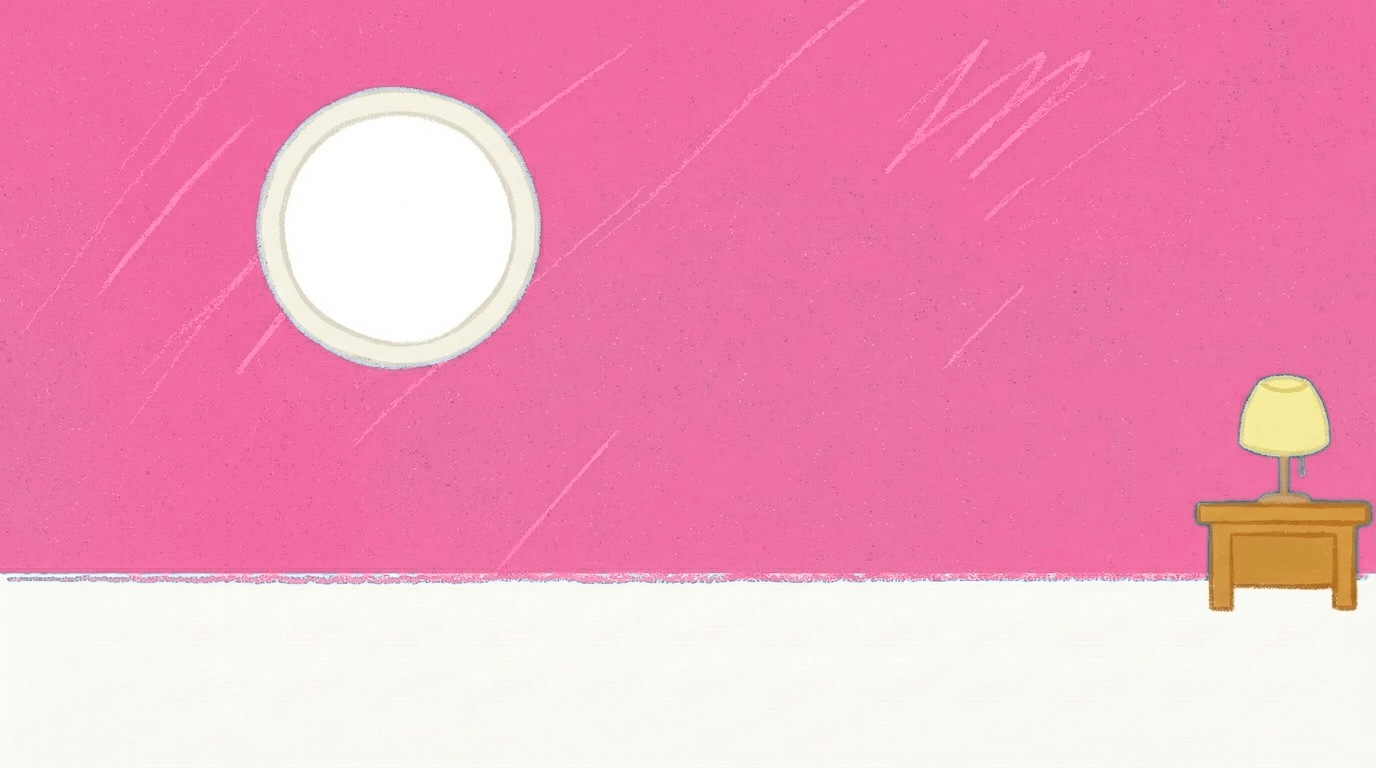
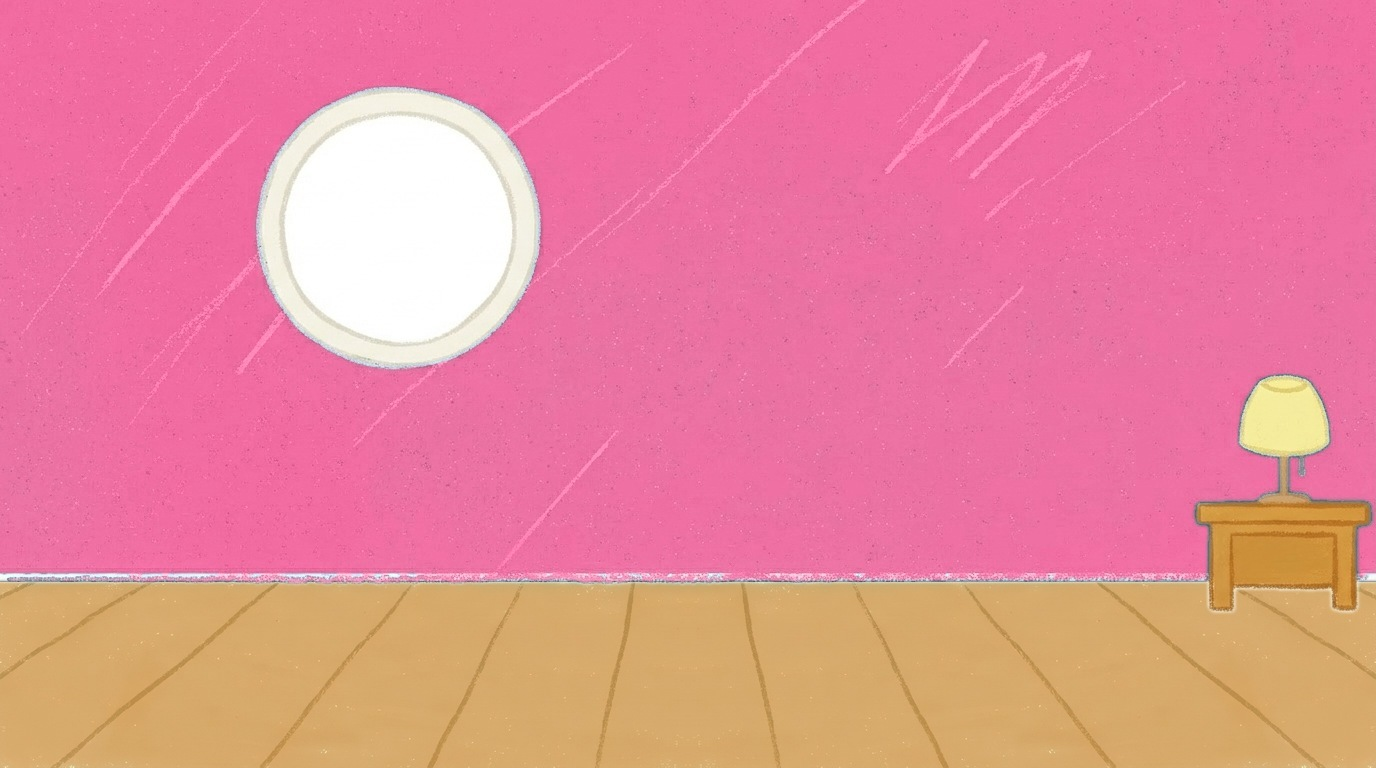
Julkalendern: starka rum och vinterkullen v3 i bruk
Kullen v3 (färgad snö, stugor) och kvällen v3 (lugnt norrsken) i lucka.KULLE.
Rummen i djur.js: köket v2 (orange), vardagsrummet v4 (teal), sovrummet v2
(rosa, nu med varmt trägolv). Rättat: mys: false hade hamnat i en kommentar.
Bakgrundsdokumenten har fått v2/v3/v4-avsnitten.

Changed region(s): [[0.0, 0.75, 1.0, 1.0]]

diff --git a/produktion/youtube/shorts/jul/djur.js b/produktion/youtube/shorts/jul/djur.js
@@ -391,8 +391,8 @@ const mysDriva = (lykta, gh, kvall, lila) => { const [gran, lampor] = mysGran(11
       <path d="M-8 -86 q8 -18 16 0" fill="none" stroke="#3E2F22" stroke-width="4"/></g>` : ''}`,
     `${lampor}${lykta ? `<circle class="mys-glod" cx="290" cy="985" r="160" fill="url(#mys-sken)"/><g transform="translate(290 1030) scale(1.4)"><rect x="-16" y="-52" width="32" height="40" rx="6" fill="#FFD25E"/>
     <path d="M0 -16 C-12 -24 -8 -36 0 -48 C8 -36 12 -24 0 -16 Z" fill="#FF8A1E"/><path d="M0 -20 C-5 -25 -4 -31 0 -38 C4 -31 5 -25 0 -20 Z" fill="#FFF3C4"/></g>` : ''}`]; };
-const mysigt = (g, VW, VH, INNE, PLAT = '') => { const lila = /-v3/.test(PLAT);   // v3-bilderna har lila snö: drivorna får samma färg if (g.mys === false) return '';
-  if (INNE) { if (g.plats !== 'sovrummet') return '';   // vardagsrummet-v3 har girlangen i bilden
+const mysigt = (g, VW, VH, INNE, PLAT = '') => { if (g.mys === false) return ''; const lila = /vinterkullen.*-v3/.test(PLAT);   // v3-kullen har lila snö: drivorna får samma färg
+  if (INNE) { if (g.plats !== 'sovrummet') return '';   // vardagsrummet (v3/v4) har girlangen i bilden
     const N = 4, krok = Array.from({ length: N + 1 }, (_, i) => -20 + i * (VW + 40) / N), hang = 78;
     const lampor = krok.slice(1).flatMap((x, i) => [0.2, 0.4, 0.6, 0.8].map(u => [lerp(krok[i], x, u), -6 + 2 * hang * 2 * u * (1 - u) + 16]));
     const rosett = x => `<g transform="translate(${x} 6)">${MYSK('M0 0 C-30 -26 -42 6 -26 14 C-14 18 -6 8 0 0 C6 8 14 18 26 14 C42 6 30 -26 0 0 Z M-4 2 L-16 38 L-4 32 Z M4 2 L16 38 L4 32 Z', '#C8302A')}<circle r="8" fill="#9E2A22"/></g>`;
@@ -420,7 +420,7 @@ async function kor(g) {
   // YouTubes knappar); bara backen (lucka 5) ritas i kod
   // plats: 'koket' | 'sovrummet' | 'hallen' = inne (assets/bakgrunder/<plats>/<plats>-v1.jpeg), ingen snö; fötterna mitt på golvet (väggen slutar vid 75 %).
   // kvall inne = rummet mörkare (ingen egen kvällsbild); varmt ljus får saken stå för · kvallMork: hur mörkt (standard 0,34; lucka 7 är ljusare)
-  const INNE = g.plats && (g.platsBild ?? `/assets/bakgrunder/${g.plats}/${g.plats}-${g.plats === 'vardagsrummet' ? 'v3' : 'v1'}.jpeg`),   // platsBild: annan bild av rummet (prov)
+  const INNE = g.plats && (g.platsBild ?? `/assets/bakgrunder/${g.plats}/${g.plats}-${{ vardagsrummet: 'v4', sovrummet: 'v2', koket: 'v2' }[g.plats] ?? 'v1'}.jpeg`),   // starka rum (2026-11-16): teal vardagsrum, rosa sovrum, orange kök; platsBild: annan bild
   BACKE = g.backe ?? 0, PLAT = INNE || g.bakgrund?.replace('julskogen/julskogen.png', 'julskogen-v2/julskogen-v2.jpeg') || !BACKE && lucka.KULLE(g.kvall);   // bakgrund: egen utomhusbild (lucka 3: julskogen)
   const [VW, VH] = STA ? [1080, 1920] : [1920, 1080], E = STA ? g.staScen ?? 1 : g.vid?.[0] ?? 0.82, MARK = STA ? 1400 : g.vid?.[1] ?? (PLAT ? 864 : 925), KANT = VW / 2 / E, TAK = -MARK / E;
   const SCEN = `transform="translate(${VW / 2} ${MARK}) scale(${E})"`, GX = g.x ?? 0, SNO = PLAT ? (g.kvall ? '#D3E0F5' : '#F7F3EA') : g.kvall ? '#E3EAF5' : '#fff';

diff --git a/produktion/youtube/shorts/jul/lucka.js b/produktion/youtube/shorts/jul/lucka.js
@@ -51,7 +51,7 @@ const SIFFRA = ['M50 10 C15 10 10 60 10 80 C10 120 20 150 50 150 C80 150 90 120 
 // till vänster om handtaget. Stående är dörren 9:16: bildens kritröda yta innanför panellinjen (utsnittet x 300–1200, y 160–1360)
 // fyller rutan, och panellinjen, siffran och handtaget ritas i kod i bildens färger.
 const TAVLA = '/assets/rekvisita/kalendertavla/cut/kalendertavla.png', LUCKA = '/assets/rekvisita/kalenderlucka/kalenderlucka.jpeg';
-const KULLE = kvall => `/assets/bakgrunder/${kvall ? 'vinterkullen-natt-v2/vinterkullen-natt-v2' : 'vinterkullen-v2/vinterkullen-v2'}.jpeg`;   // v2 (2026-11-16): rosa eftermiddag och lila kväll, samma kulle
+const KULLE = kvall => `/assets/bakgrunder/${kvall ? 'vinterkullen-natt-v3/vinterkullen-natt-v3' : 'vinterkullen-v3/vinterkullen-v3'}.jpeg`;   // v3 (2026-11-16): färgad snö, stugor, lila skogskant, kväll med lugnt norrsken; samma kulle
 const bild = src => new Promise(r => { const im = new Image(); im.onload = im.onerror = r; im.src = src; });
 const siffror = (n, x, y, sk) => `<g transform="translate(${x} ${y}) scale(${sk}) translate(${-(String(n).length * 130 - 30) / 2} -80)"
   fill="none" stroke="${PAPPER}" stroke-width="28" stroke-linecap="round" stroke-linejoin="round">

diff --git a/bakgrunder/vinterkullen.md b/bakgrunder/vinterkullen.md
@@ -26,3 +26,12 @@ Google Flow, Nano Banana Pro, image2image (Edit Image 1 = bilden ovan), 16:9, up
 ```
 Edit Image 1. Keep the winter place EXACTLY the same in layout: same flat straight-on view, same soft wax-crayon and oil-pastel technique with fine crayon hatching and no dark outlines, the same big creamy white snow hill with exactly the same curve, height and position, and the same completely empty middle of the picture. ONLY change the colours and add a little life at the far edges. The sky becomes a rich, warm, colourful winter afternoon: clear saturated blue (#6FA3E0) at the very top, blending down through soft lilac (#B8A6E6) and warm rosy pink (#F4A9C2) to a glowing warm peach (#FFD1A6) just above the hill, all with the same gentle crayon hatching, saturated and cheerful like a toddler picture book. Far behind the hill, a low distant snowy ridge in soft lilac-blue crayon shows along the horizon. At the far left and far right edges only: a few more, fuller, chunky spruce trees in deep rich green crayon (#2F7D46) with rounded white snow caps, a little taller and more saturated than before but still only at the outer 15 percent of each side. At the far right, partly behind the trees, one small cosy red wooden cottage with a snowy roof and one small window glowing warm yellow. The snow hill stays clean creamy white (#FAF8F2) with a soft pale lilac crayon shade along its top edge. The middle 65 percent of the picture stays completely empty: only sky above and plain snow below. No sun, no moon, no clouds, no falling snow, no snowflakes, no stars, no animals, no people, no snowman, no footprints, no objects in the middle, no cast shadows, no text, no white frame or border.
 ```
+
+
+## Vinterkullen v3: färgad snö (julkalendern)
+
+`assets/bakgrunder/vinterkullen-v3/vinterkullen-v3.jpeg` (tagning 1 av 2, båda i `original/`). Samma kulle (kanten 1044–1054 mot 1050), mättnad ca 35 %. Snön är rosa och persika i krönet och lila och blå längre ner, med en lila skogskant bakom, granar i två djup och en röd och en gul stuga med tända fönster. Används av `lucka.KULLE()` sedan 2026-11-16 (Sanna: *"yes use new ones"*). Google Flow, Nano Banana Pro, Edit Image 1 = v2, 16:9, 2752 × 1536, 0 krediter.
+
+```
+Edit Image 1. Keep the layout EXACTLY the same: same flat straight-on view, the same big snow hill with exactly the same curve, height and position, the same empty middle of the picture where a character will stand. Make the whole picture much more colourful and saturated, like a rich premium toddler picture book drawn in thick wax crayon and oil pastel with visible crayon texture everywhere, no dark outlines. Sky: saturated clear blue (#4F8FE0) at the top, through rich lilac (#A68BE8) and strong rosy pink (#F48FB1) to a glowing warm peach-orange (#FFC08A) at the horizon. The snow is NEVER plain white paper: colour the snow hill with the sky's colours – soft rosy pink and peach light along the top of the hill where the low sun touches it, and cool lilac and periwinkle blue (#B7B0F0, #9DB4F2) crayon shading lower down and towards the sides, with gentle visible crayon strokes across the snow. Behind the hill, a soft purple forest edge (#7D6BC4) of small rounded spruce silhouettes along the horizon. At the left and right edges only, many more spruce trees in two depths: deep saturated blue-green spruces (#1F6B5A) in front with thick white-lilac snow caps, and paler lilac-blue spruces behind them. Far away on the right, two or three tiny cosy cottages, one red and one yellow, with small windows glowing warm golden yellow. The middle 60 percent of the picture stays completely empty of objects: only sky above and coloured snow below. No sun, no moon, no clouds, no falling snow, no snowflakes, no stars, no animals, no people, no snowman, no footprints, no text, no white frame or border.
+```

diff --git a/bakgrunder/vinterkullen-natt.md b/bakgrunder/vinterkullen-natt.md
@@ -37,3 +37,12 @@ Google Flow, Nano Banana Pro, image2image (Edit Image 1 = bilden ovan), 16:9, up
 ```
 Edit Image 1. Keep the winter evening place EXACTLY the same in layout: same flat straight-on view, same soft wax-crayon and oil-pastel technique with fine crayon hatching and no dark outlines, the same snow hill with exactly the same curve, height and position, and the same completely empty middle of the picture. ONLY change the colours and add a little warmth at the far edges. The sky becomes a cosy, colourful Christmas evening: deep friendly indigo (#2E2F72) at the top, blending down through rich violet (#5B4598) and soft plum-lilac (#9A6BB4) to a warm rosy pink glow (#E9A0B8) just above the hill, all with the same gentle crayon hatching. Never black, never gloomy. Far behind the hill, a low distant snowy ridge in soft lilac-blue crayon shows along the horizon. The snow hill is soft light lavender-white snow (#E2DEF2), a little lighter along its top, with a faint rosy reflection. At the far left and far right edges only: a few more, fuller, chunky spruce trees in deep blue-green crayon with pale snow caps, still only at the outer 15 percent of each side. At the far right, partly behind the trees, one small cosy red wooden cottage with a snowy roof and one small window glowing warm golden yellow with a soft warm glow. The middle 65 percent of the picture stays completely empty: only sky above and plain snow below. No moon, no stars, no clouds, no falling snow, no snowflakes, no animals, no people, no snowman, no footprints, no objects in the middle, no cast shadows, no text, no white frame or border.
 ```
+
+
+## Vinterkullen natt v3: indigo med norrsken (julkalendern)
+
+`assets/bakgrunder/vinterkullen-natt-v3/vinterkullen-natt-v3.jpeg` (tagning 2 av 2, den med lugnast norrsken; båda i `original/`). Kanten ligger på 1047, mättnaden är ca 40 %. Används av `lucka.KULLE(true)` sedan 2026-11-16. Google Flow, Nano Banana Pro, Edit Image 1 = natt-v2, Image 2 = vinterkullen-v3, 16:9, 2752 × 1536, 0 krediter.
+
+```
+Edit Image 1 (use Image 2 only as a reference for the richer crayon texture, the purple forest edge, the two depths of trees and the red and yellow cottages). Keep Image 1's layout EXACTLY the same: same flat straight-on view, the same snow hill with exactly the same curve, height and position, the same empty middle where a character will stand. Make it a magical, cosy, colourful Christmas evening drawn in thick wax crayon and oil pastel with visible crayon texture everywhere, no dark outlines. Sky: deep friendly indigo (#2A2A78) at the top, through rich violet (#5A3FA0) and plum (#9A5CB0) to a warm rosy pink glow (#F08FB0) along the horizon. High up in the sky, a soft gentle band of northern lights in pale mint green (#8FE3C0) and soft pink, drawn as a few calm soft crayon ribbons, not busy. A sprinkling of small soft cream-yellow stars in the upper sky, simple dots and tiny four-point twinkles. The snow is never plain white: lavender and periwinkle snow (#B9B2EC, #9AA6E6) with rosy pink light along the top of the hill and visible crayon strokes. Behind the hill a purple forest edge (#5E4FA6). At the left and right edges only, many spruce trees in two depths: deep saturated blue-green (#185E52) in front with lilac-white snow caps, lighter violet-blue behind. Far away on the right, two or three tiny cottages, one red and one yellow, with windows glowing warm golden yellow and a soft warm glow. The middle 60 percent stays empty of objects. Never black, never scary. No moon, no clouds, no falling snow, no snowflakes, no animals, no people, no snowman, no footprints, no text, no white frame or border.
+```

diff --git a/bakgrunder/vardagsrummet.md b/bakgrunder/vardagsrummet.md
@@ -24,3 +24,8 @@ Google Flow, Nano Banana Pro, image2image (Edit Image 1 = bilden ovan), 16:9, up
 ```
 Edit Image 1. Keep this living room EXACTLY the same in layout: same flat straight-on view, same flat crayon and grainy oil-pastel technique, the same window in exactly the same place and size with its cream frame, cross bar and sill, the same red tied-back curtains, the same mustard armchair with the knitted blanket, the same striped rug, the same warm wooden floor meeting the wall at exactly the same height. The inside of the window MUST stay completely EMPTY plain flat pure white (#FFFFFF): no sky, no snow, no star, no candles, nothing inside the glass. ONLY make the room cosy and Christmassy: the blue wall becomes a slightly warmer, rich deep blue with the same crayon texture. Above the window and along the curtain rod, one lush green spruce garland with small red bows and a string of small warm glowing yellow fairy lights, drawn in flat crayon. High up on the wall in the upper right, one small, simple Swedish-style red and cream Christmas wall hanging (a plain fabric banner with a simple heart and star pattern, no text). On the armchair, one small red cushion. A soft warm golden glow on the wall around the fairy lights. The whole lower right half of the room (floor and the wall above it up to the wall hanging) stays empty, with space for a Christmas tree added later. No tree, no presents, no fireplace, no candles, no lamps, no bed, no characters, no animals, no text, no letters, no white frame or border.
 ```
+
+
+## Vardagsrummet v4: teal (julkalendern)
+
+`assets/bakgrunder/vardagsrummet/vardagsrummet-v4.jpeg` är v3 med teal vägg (#1F9E96). Den är omfärgad i kod med en färgmatris som flyttar den blå väggen men behåller vitt, trä, rött, grönt och girlangens glöd, så fönstret, golvet och `fonster-mask-v3.png` passar som förut. Sanna 2026-11-16: starka färger i rummen, som i 022, 024 och 029. Används av julkalendern (`djur.js`).

diff --git a/bakgrunder/koket.md b/bakgrunder/koket.md
@@ -9,3 +9,8 @@ Köket i art direction v2 (`stil/art-direction-v2.md`): en kraftig solgul vägg 
 ```prompt
 Image 1 is a STYLE and LAYOUT reference only: copy its flat crayon technique, its straight-on composition and its floor line, not its colour or its tiles. Background plate for a toddler cartoon, wide 16:9, completely flat, static straight-on view, no perspective. The top two thirds is one flat, bold, warm sunny yellow kitchen wall (#F5C542) filled edge to edge with a dense grainy oil-pastel and wax-crayon texture, with a quiet wallpaper of small hand-drawn gingham checks in rows, the check lines only a little lighter than the wall, so the wall still reads as one warm colour, plus a few loose, light, thin diagonal scratchy crayon streaks. The bottom third is a plain flat white floor (#FAF8F2) with only the faintest grain, meeting the wall at one straight horizontal line with a slightly rough hand-drawn crayon edge, at about 70% of the image height. Nothing else. Bold, simple, flat, cheerful, lots of empty space. No table, no chairs, no cupboards, no windows, no food, no characters, no animals, no shadows, no text, no letters.
 ```
+
+
+## Köket v2: orange (julkalendern)
+
+`assets/bakgrunder/koket/koket-v2.jpeg` är v1 med orange rutig tapet (#F28A2E, ny nyans i kod) och samma vita golv och golvlinje. Används av julkalendern sedan 2026-11-16 (lucka 4, som ritar sitt eget fönster och sin egen slinga). v1 gäller fortfarande för 022.

diff --git a/bakgrunder/sovrummet.md b/bakgrunder/sovrummet.md
@@ -13,3 +13,8 @@ Images 1 and 2 are STYLE and LAYOUT references only: copy their flat crayon tech
 ```
 
 De andra färgerna: byt `deep sky-blue wall (#3F6EA6)` mot `soft lavender wall (#A992D6)`, `soft sage green wall (#8DB580)` eller `soft dusty rose pink wall (#E59AA0)`, och "lighter blue" mot samma färg.
+
+
+## Sovrummet v2: rosa med trägolv (julkalendern)
+
+`assets/bakgrunder/sovrummet/sovrummet-v2.jpeg` är v1 med rosa vägg (#EE6FA0, ny nyans i kod med samma kritstruktur) och trägolvet från vardagsrummet-v4 (högra halvan, speglad). Fönstret, nattduksbordet och golvlinjen (rad 582 av 768) ligger exakt kvar. Julgirlangen ritas i `djur.js`. Används av julkalendern sedan 2026-11-16 (lucka 7 och 20). v1 gäller fortfarande för övriga avsnitt.
